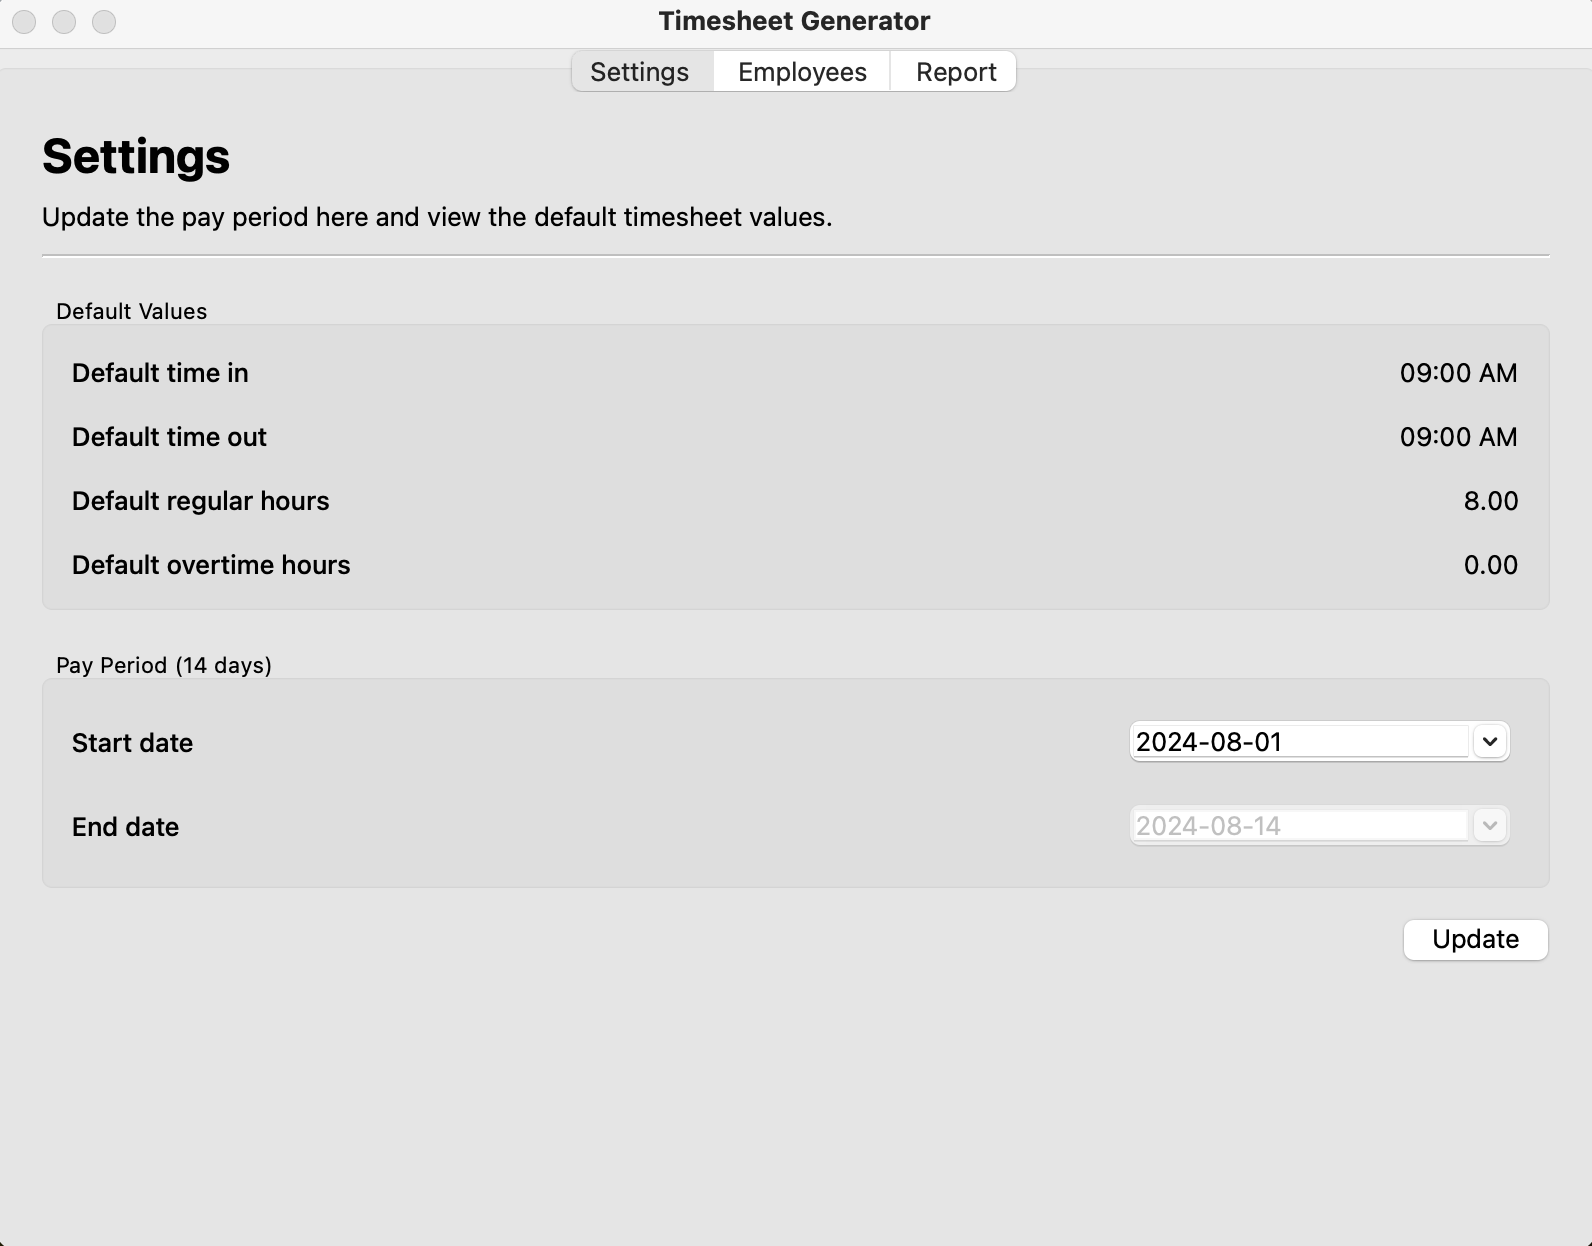
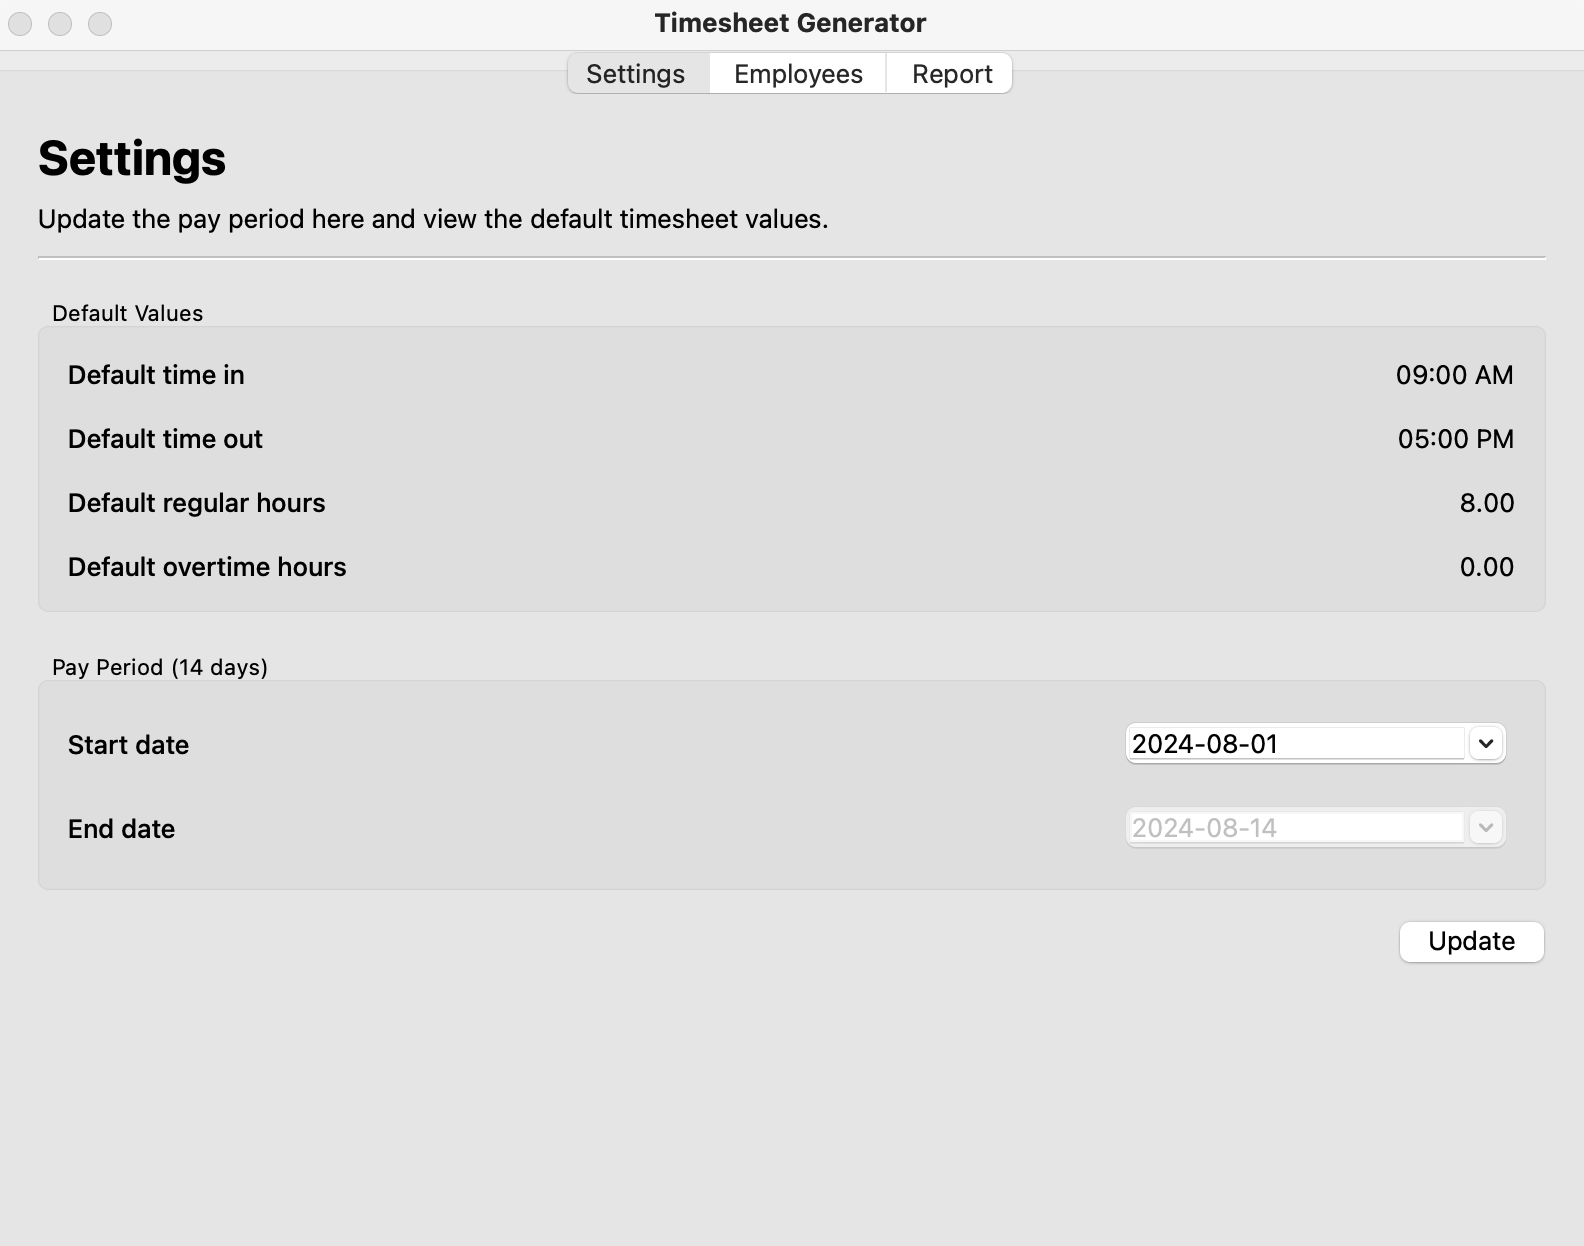
oops fix settings time out value

diff --git a/gui/settings_tab/settings_tab.py b/gui/settings_tab/settings_tab.py
@@ -92,7 +92,7 @@ class SettingsTab(QWidget):
 
         rows = [
             ("Default time in", constants.DEFAULT_TIME_IN.strftime("%I:%M %p")),
-            ("Default time out", constants.DEFAULT_TIME_IN.strftime("%I:%M %p")),
+            ("Default time out", constants.DEFAULT_TIME_OUT.strftime("%I:%M %p")),
             ("Default regular hours", constants.DEFAULT_HOURS_REG),
             ("Default overtime hours", constants.DEFAULT_HOURS_OT)
         ]
